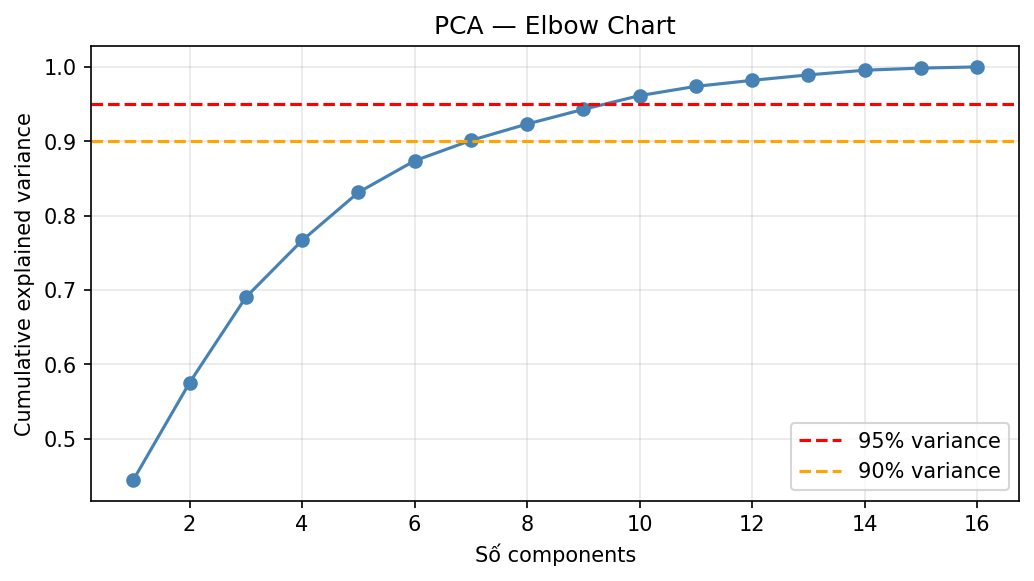
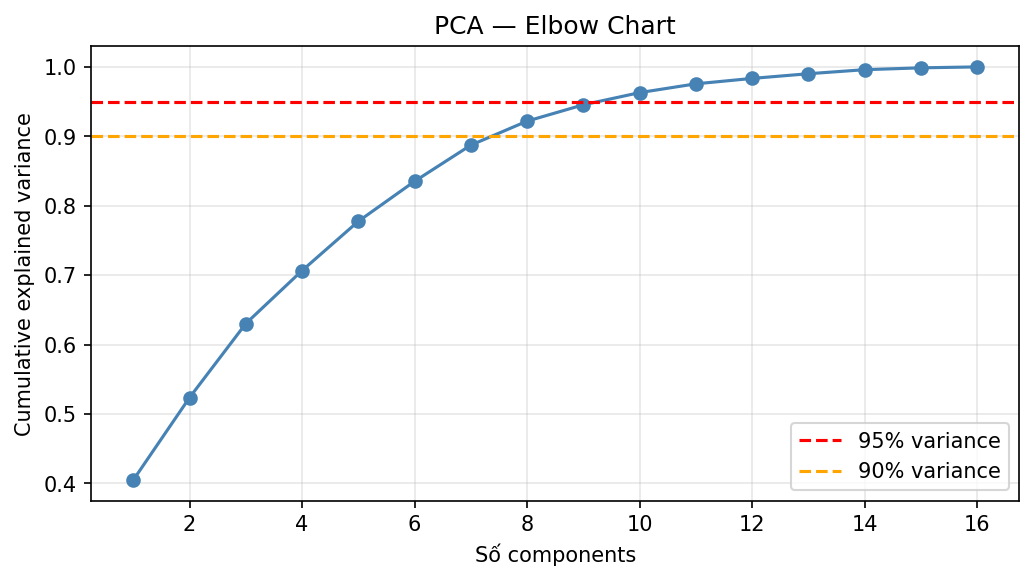
fix

diff --git a/Plot/VisualizationLDA.py b/Plot/VisualizationLDA.py
@@ -1,0 +1,74 @@
+import pandas as pd
+import matplotlib.pyplot as plt
+from sklearn.discriminant_analysis import LinearDiscriminantAnalysis
+import numpy as np
+from matplotlib.gridspec import GridSpec
+
+# --- Đọc dữ liệu (đã scale sẵn) ---
+df = pd.read_csv(r"D:\MachineLearning\BTL\data\scaled\data_scaled.csv")
+
+# --- Tách X và y ---
+X = df.drop(columns=['NObeyesdad'])
+y = df['NObeyesdad']
+
+# --- Encode label để vẽ màu ---
+y_cat = pd.Categorical(y)
+y_codes = y_cat.codes
+class_names = y_cat.categories
+
+# --- Data đã scale sẵn ---
+X = X.values
+
+# --- LDA ---
+lda = LinearDiscriminantAnalysis(n_components=min(6, len(class_names) - 1))
+X_lda = lda.fit_transform(X, y)
+
+# --- Colormap ---
+n_classes = len(class_names)
+cmap = plt.cm.get_cmap('tab10', n_classes)
+colors = [cmap(i) for i in range(n_classes)]
+
+# --- Các cặp LD ---
+pairs = [(0,1), (0,2), (0,3), (1,2), (1,3)]
+
+# --- Tạo figure với GridSpec 3 hàng x 4 cột ---
+fig = plt.figure(figsize=(14, 10))
+gs = GridSpec(3, 4, figure=fig)
+
+axes = [
+    fig.add_subplot(gs[0, 0:2]),
+    fig.add_subplot(gs[0, 2:4]),
+    fig.add_subplot(gs[1, 0:2]),
+    fig.add_subplot(gs[1, 2:4]),
+    fig.add_subplot(gs[2, 1:3]),  # subplot cuối căn giữa
+]
+
+for i, (a, b) in enumerate(pairs):
+    ax = axes[i]
+    ax.scatter(
+        X_lda[:, a], X_lda[:, b],
+        c=y_codes,
+        cmap=cmap,
+        vmin=0, vmax=n_classes - 1,
+        alpha=0.7
+    )
+    ax.set_xlabel(f'LD{a+1}', fontsize=11)
+    ax.set_ylabel(f'LD{b+1}', fontsize=11)
+    ax.set_title(f'LD{a+1} vs LD{b+1}', fontsize=12)
+    ax.grid(True, linestyle='--', alpha=0.3)
+
+# --- Legend chung ---
+handles = [
+    plt.Line2D([], [], marker='o', linestyle='', color=colors[i],
+               markersize=8, label=int(class_names[i]))
+    for i in range(n_classes)
+]
+
+fig.legend(handles=handles, title="Classes", bbox_to_anchor=(1.02, 0.95), loc='upper left')
+
+plt.suptitle("LDA Visualization", fontsize=16)
+plt.tight_layout()
+
+# --- Lưu ảnh ---
+plt.savefig(r"D:\MachineLearning\BTL\Plot\LDA_visualization.png", dpi=300, bbox_inches='tight')
+plt.show()

diff --git a/Plot/VisualizationPCA.py b/Plot/VisualizationPCA.py
@@ -1,0 +1,75 @@
+import pandas as pd
+import matplotlib.pyplot as plt
+from sklearn.decomposition import PCA
+from sklearn.preprocessing import StandardScaler
+import numpy as np
+from matplotlib.gridspec import GridSpec
+
+# --- Đọc dữ liệu (đã scale sẵn) ---
+df = pd.read_csv(r"D:\MachineLearning\BTL\data\scaled\data_scaled.csv")
+
+# --- Tách X và y ---
+X = df.drop(columns=['NObeyesdad'])
+y = df['NObeyesdad']
+
+# --- Encode label để vẽ màu ---
+y_cat = pd.Categorical(y)
+y_codes = y_cat.codes
+class_names = y_cat.categories
+
+# --- Bỏ StandardScaler vì data đã scale sẵn ---
+X = X.values
+
+# --- PCA ---
+pca = PCA(n_components=6)
+X_pca = pca.fit_transform(X)
+
+# --- Colormap ---
+n_classes = len(class_names)
+cmap = plt.cm.get_cmap('tab10', n_classes)
+colors = [cmap(i) for i in range(n_classes)]
+
+# --- Các cặp PC ---
+pairs = [(0,1), (0,2), (0,3), (1,2), (1,3)]
+
+# --- Tạo figure với GridSpec 3 hàng x 4 cột ---
+fig = plt.figure(figsize=(14, 10))
+gs = GridSpec(3, 4, figure=fig)
+
+axes = [
+    fig.add_subplot(gs[0, 0:2]),
+    fig.add_subplot(gs[0, 2:4]),
+    fig.add_subplot(gs[1, 0:2]),
+    fig.add_subplot(gs[1, 2:4]),
+    fig.add_subplot(gs[2, 1:3]),  # subplot cuối căn giữa
+]
+
+for i, (a, b) in enumerate(pairs):
+    ax = axes[i]
+    ax.scatter(
+        X_pca[:, a], X_pca[:, b],
+        c=y_codes,
+        cmap=cmap,
+        vmin=0, vmax=n_classes - 1,
+        alpha=0.7
+    )
+    ax.set_xlabel(f'PC{a+1}', fontsize=11)
+    ax.set_ylabel(f'PC{b+1}', fontsize=11)
+    ax.set_title(f'PC{a+1} vs PC{b+1}', fontsize=12)
+    ax.grid(True, linestyle='--', alpha=0.3)
+
+# --- Legend chung ---
+handles = [
+    plt.Line2D([], [], marker='o', linestyle='', color=colors[i],
+               markersize=8, label=int(class_names[i]))
+    for i in range(n_classes)
+]
+
+fig.legend(handles=handles, title="Classes", bbox_to_anchor=(1.02, 0.95), loc='upper left')
+
+plt.suptitle("PCA Visualization", fontsize=16)
+plt.tight_layout()
+
+# --- Lưu ảnh ---
+plt.savefig(r"D:\MachineLearning\BTL\Plot\PCA_visualization.png", dpi=300, bbox_inches='tight')
+plt.show()

diff --git a/PrepData/Standardization.py b/PrepData/Standardization.py
@@ -3,9 +3,9 @@ import numpy as np
 from sklearn.preprocessing import StandardScaler, RobustScaler
 
 
-train = pd.read_csv('D:\\MachineLearning\\BTL\\data\\train.csv')
-val   = pd.read_csv('D:\\MachineLearning\\BTL\\data\\val.csv')
-test  = pd.read_csv('D:\\MachineLearning\\BTL\\data\\test.csv')
+train = pd.read_csv('D:\\MachineLearning\\BTL\\train.csv')
+val   = pd.read_csv('D:\\MachineLearning\\BTL\\val.csv')
+test  = pd.read_csv('D:\\MachineLearning\\BTL\\test.csv')
 
 ########################################## TÁCH X - y ###########################################
 
@@ -21,7 +21,7 @@ y_test = test['NObeyesdad']
 ###################################### CHUẨN HÓA DỮ LIỆU ######################################
 
 robust_cols   = ['Age', 'NCP']
-standard_cols = ['Height', 'Weight', 'CH2O', 'FAF']
+standard_cols = ['Height', 'Weight', 'CH2O', 'FAF', 'FCVC', 'TUE']
 
 # Copy để tránh warning
 X_train_scaled = X_train.copy()

diff --git a/PrepData/Encoding.py b/PrepData/Encoding.py
@@ -2,7 +2,7 @@ import pandas as pd
 from sklearn.preprocessing import OrdinalEncoder
 from sklearn.model_selection import train_test_split
 
-df = pd.read_csv('D:\\MachineLearning\\BTL\\ObesityDataSet_raw_and_data_sinthetic.csv')
+df = pd.read_csv('D:\\MachineLearning\\BTL\\data\\ObesityDataSet_raw_and_data_sinthetic.csv')
 
 ############################################## SPLIT ##########################################
 X = df.drop('NObeyesdad', axis=1)
@@ -41,7 +41,7 @@ for col in binary_cols:
     X_test[col]  = X_test[col].map(binary_mapping)
 
 # 2. MTRANS (Ordinal)
-mtrans_order = ['Automobile', 'Motorbike', 'Public_Transportation', 'Bike', 'Walking']
+mtrans_order = ['Walking','Bike','Motorbike', 'Automobile', 'Public_Transportation']
 
 for data in [X_train, X_val, X_test]:
     data['MTRANS'] = pd.Categorical(

diff --git a/PrepData/plot.py b/PrepData/plot.py
@@ -2,7 +2,7 @@ import pandas as pd
 import matplotlib.pyplot as plt
 import seaborn as sns
 
-df = pd.read_csv('D:\\MachineLearning\\BTL\\data\\scaled\\train_scaled.csv') 
+df = pd.read_csv("D:\\MachineLearning\\BTL\\data\\scaled\\data_scaled.csv") 
 
 cols   = ['Age', 'Height', 'Weight', 'NCP', 'CH2O', 'FAF']
 colors = ['#4C72B0', '#DD8452', '#55A868', '#C44E52', '#8172B2', '#937860']

diff --git a/PrepData/PCAnLDA.py b/PrepData/PCAnLDA.py
@@ -7,7 +7,7 @@ from sklearn.discriminant_analysis import LinearDiscriminantAnalysis
 import warnings
 warnings.filterwarnings('ignore')
 
-data = pd.read_csv('D:\\MachineLearning\\BTL\\data\\scaled\\train_scaled.csv')
+data = pd.read_csv("D:\MachineLearning\BTL\data\scaled\data_scaled.csv")
 
 X = data.drop(columns=['NObeyesdad']).values
 y = data['NObeyesdad'].astype(int).values
